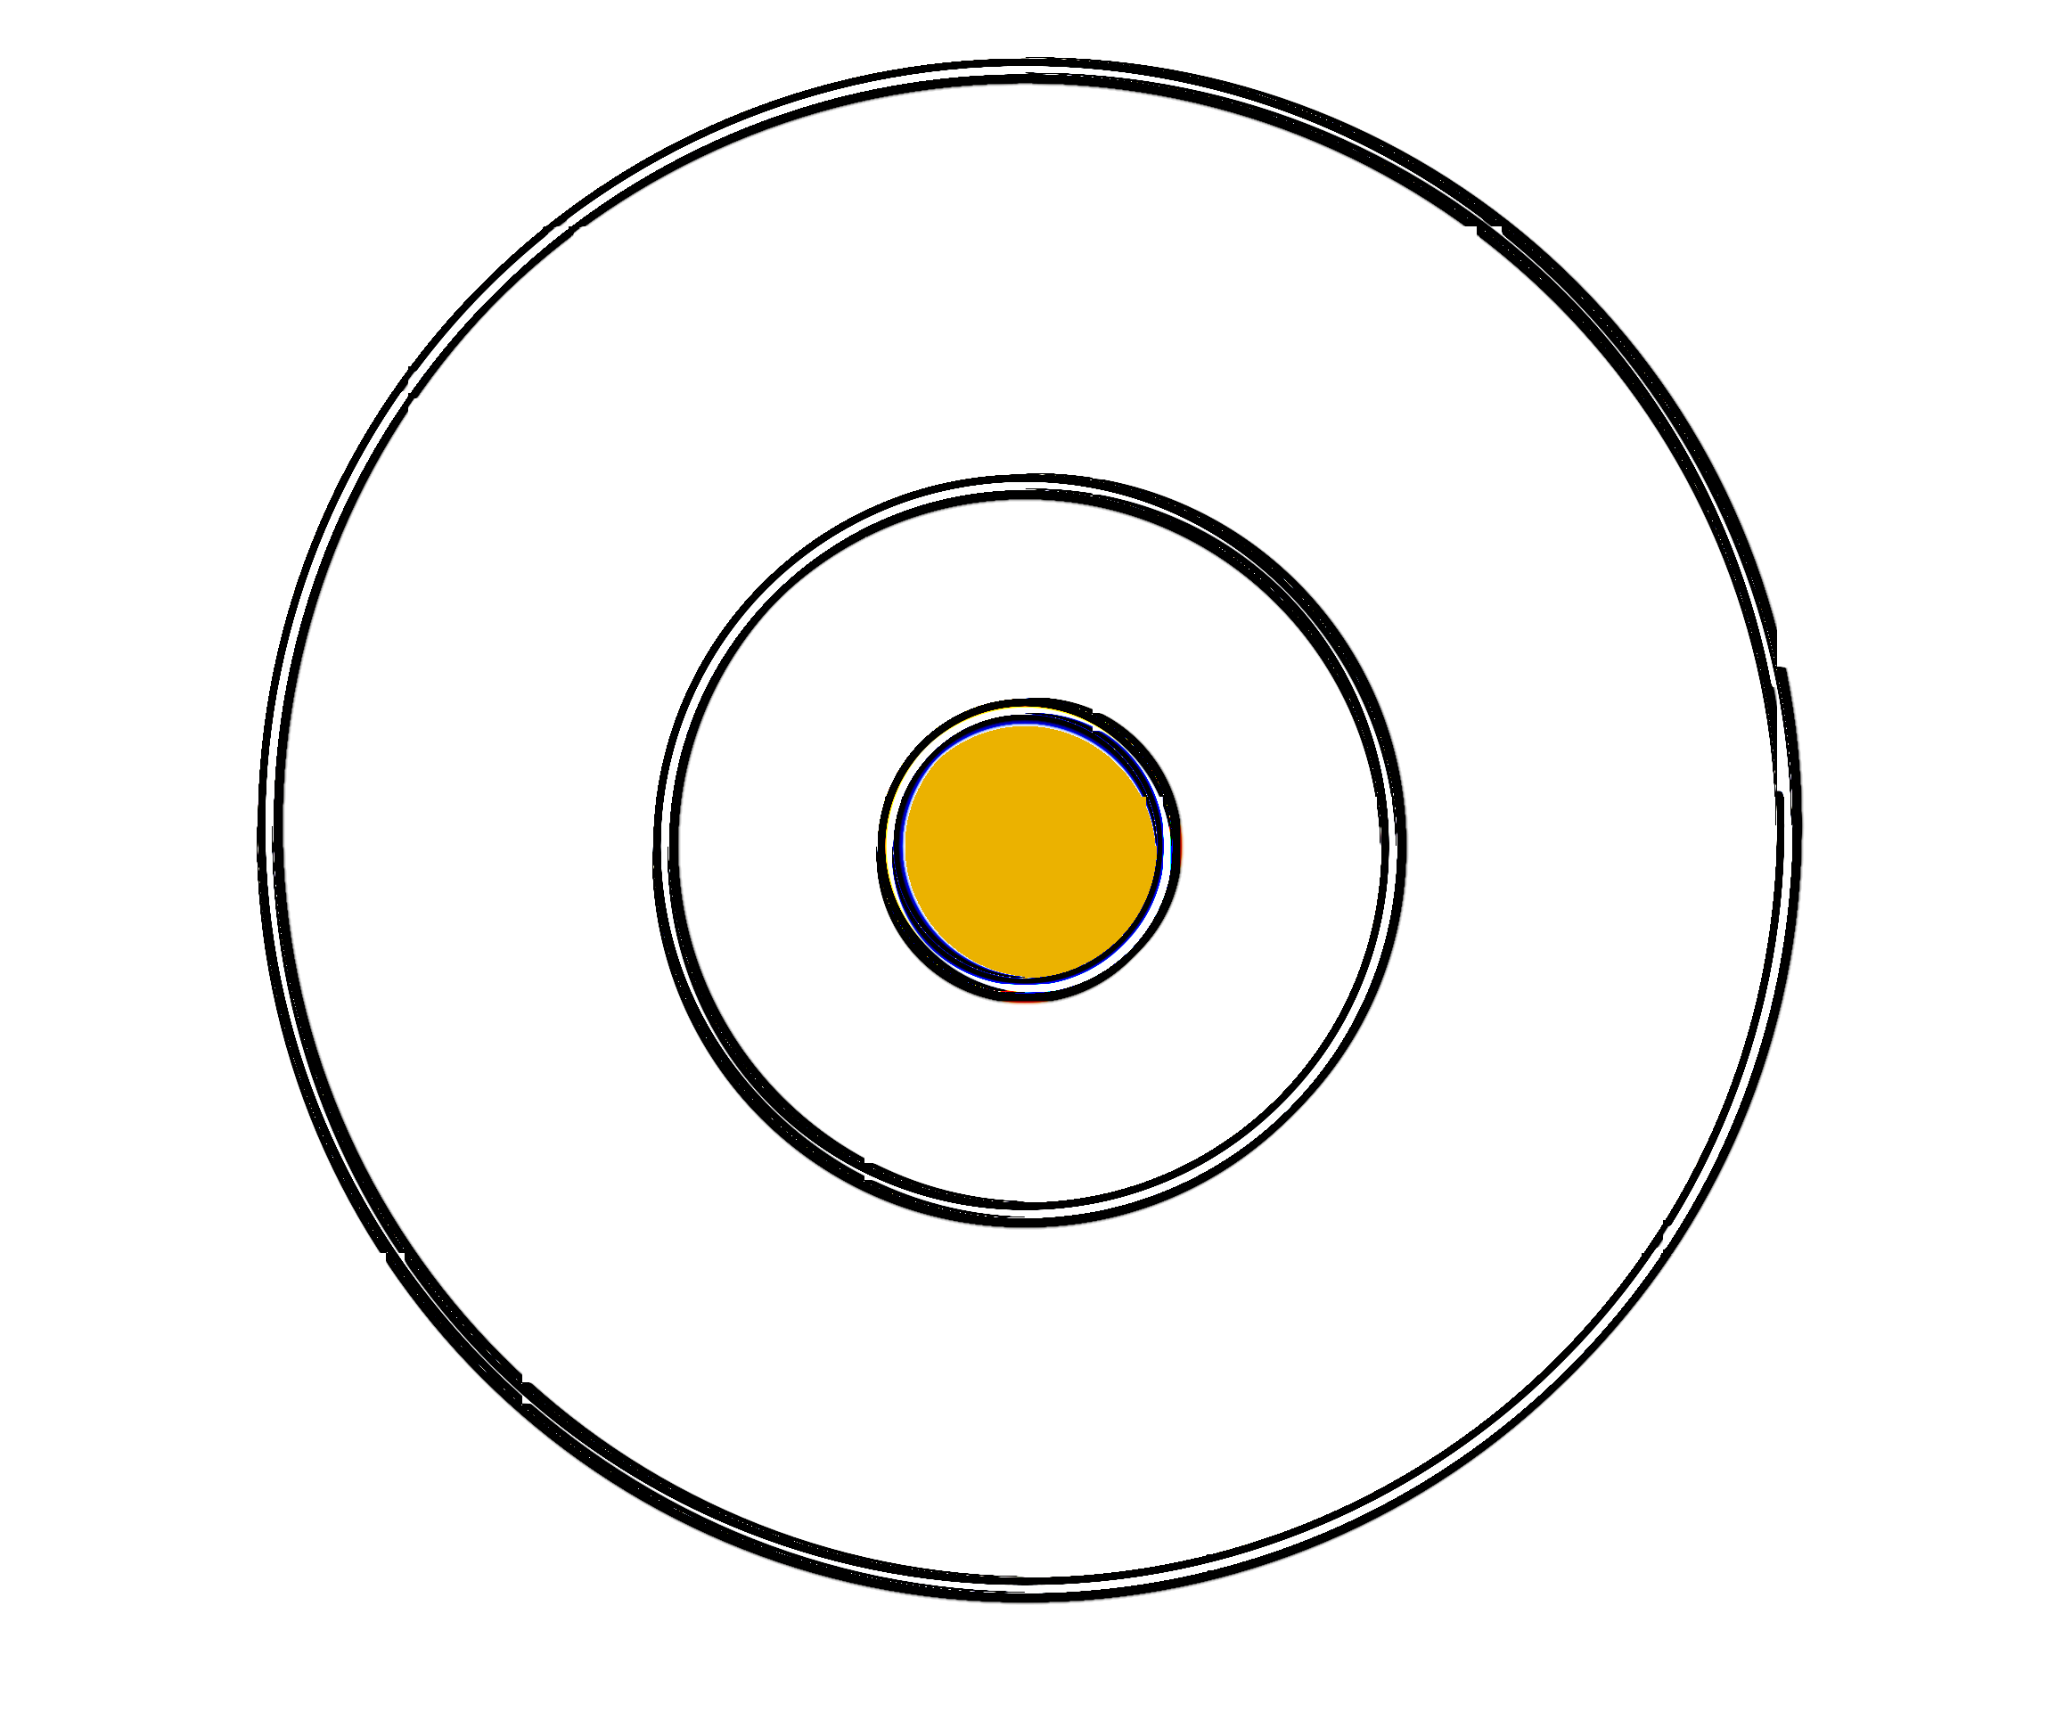
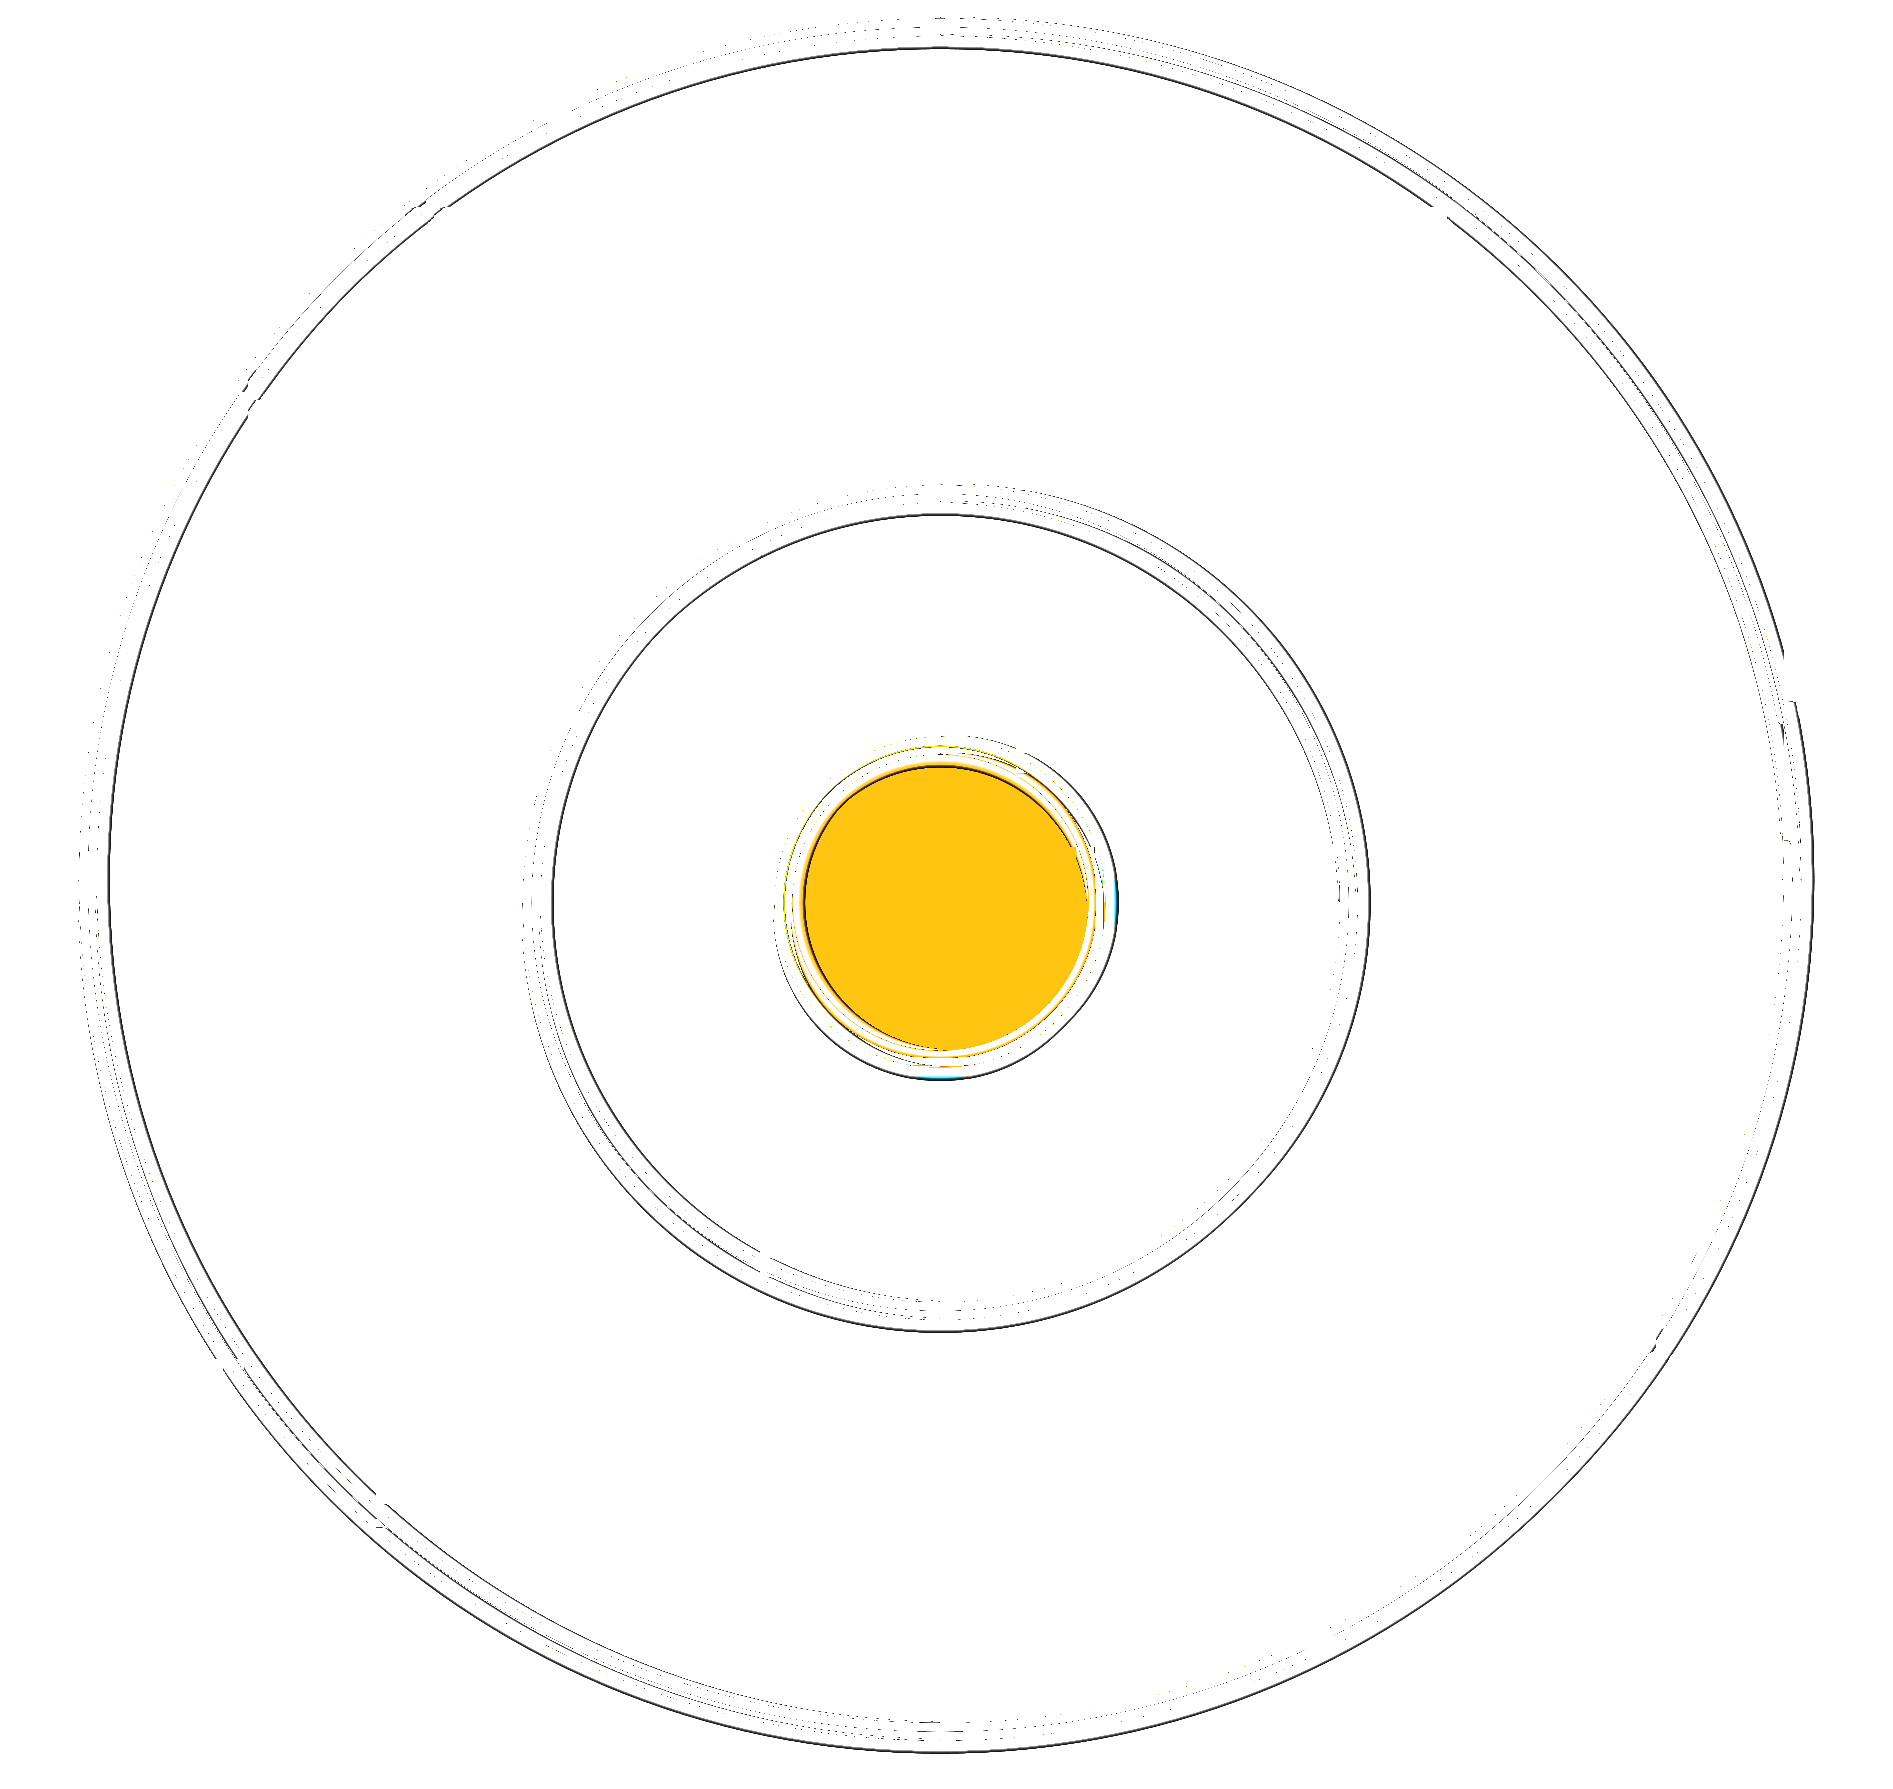
Swap plates 1-13 for dark-background versions and drop the white backing
The author supplied inverted (white-linework) exports of all 13
illustrations, matched to their plate numbers by symbol. They sit
directly on the dark page now, so the white box workaround behind
plates is removed. Plate 14 (QR code) keeps its own white background
so it stays scannable.

diff --git a/app.js b/app.js
@@ -32,8 +32,7 @@ function plateFallback(img) {
   }
   .chapter-image { text-align: center; overflow: visible; }
   .chapter-plate { display: block; height: auto; margin: 2.6rem auto;
-    background: #fff; padding: 1.25rem; border-radius: 2px; box-sizing: border-box;
-    max-width: calc(100vw - 32px); }
+    box-sizing: border-box; max-width: calc(100vw - 32px); }
   .chapter-image .chapter-plate { flex-shrink: 0; }
   sup.fn-ref { font-size: .62em; vertical-align: super; line-height: 0; margin-left: 1px;
     cursor: pointer; color: var(--accent, #c9a86c); padding: 0 2px; outline: none; }
@@ -4024,16 +4023,16 @@ document.addEventListener('DOMContentLoaded', () => {
   document.getElementById('shareBtn').addEventListener('click', share);
 
   // download placeholder
-  document.getElementById('downloadBtn').addEventListener('click', e => {
-    e.preventDefault();
-    showToast('PDF download coming soon');
-  });
+  // document.getElementById('downloadBtn').addEventListener('click', e => {
+  //   e.preventDefault();
+  //   showToast('PDF download coming soon');
+  // });
 
   // purchase placeholder
-  document.getElementById('purchaseBtn').addEventListener('click', e => {
-    e.preventDefault();
-    showToast('Purchase page coming soon');
-  });
+  // document.getElementById('purchaseBtn').addEventListener('click', e => {
+  //   e.preventDefault();
+  //   showToast('Purchase page coming soon');
+  // });
 
   // hash navigation
   window.addEventListener('hashchange', () => {
